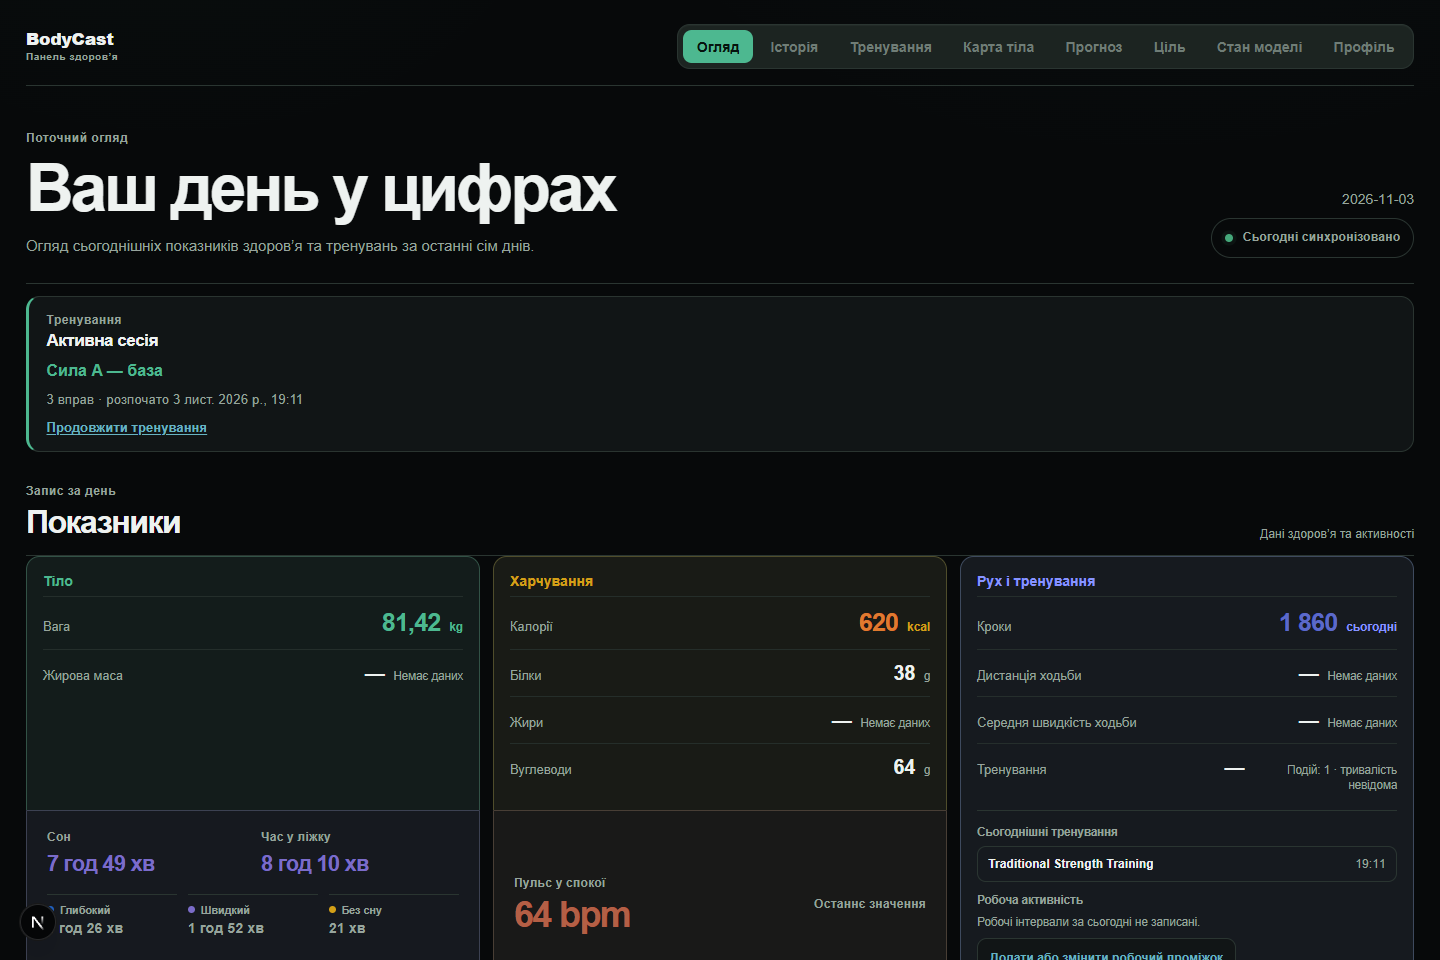
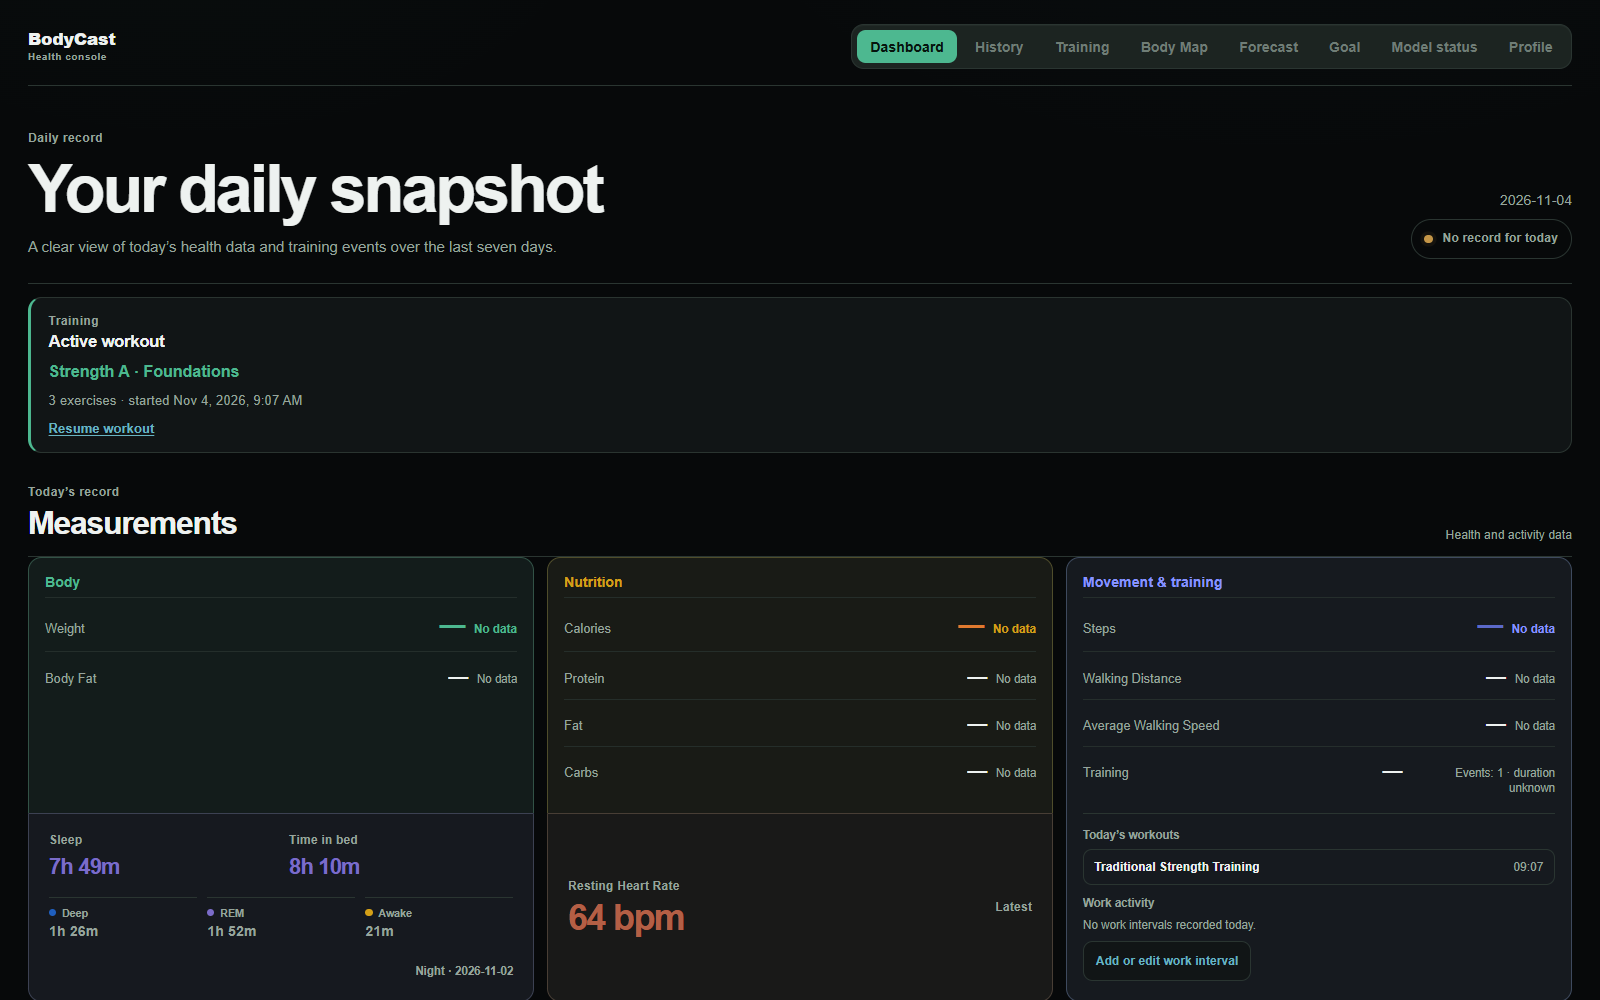
docs: expand English README screenshot gallery

diff --git a/scripts/qa/fullsite-preview-seed.ts b/scripts/qa/fullsite-preview-seed.ts
@@ -244,9 +244,15 @@ async function seedProgramsAndSessions(workouts: Awaited<ReturnType<typeof seedD
   const catalog = await prisma.exerciseCatalog.findMany({ where: { profileId: 1, isActive: true }, orderBy: { id: "asc" }, take: 10 });
   if (catalog.length < 6) throw new Error(`Expected at least six migration-seeded exercises, found ${catalog.length}`);
 
+  const previewExerciseNames = [
+    "30° incline dumbbell press", "Flat-bench dumbbell fly", "Handle push-up", "Seated dumbbell press",
+    "Single-arm lateral raise", "Single-arm cable triceps extension", "Bent-over single-arm dumbbell extension",
+    "Single-arm seated cable row", "Hyperextension", "Kneeling single-arm dumbbell curl",
+  ];
+  const previewExerciseNameById = new Map(catalog.map((exercise, index) => [exercise.id, previewExerciseNames[index] ?? exercise.name]));
   const programConfigs = [
-    { name: "Сила A — база", exercises: catalog.slice(0, 5) },
-    { name: "Сила B — обсяг", exercises: catalog.slice(5, 10) },
+    { name: "Strength A · Foundations", exercises: catalog.slice(0, 5) },
+    { name: "Strength B · Volume", exercises: catalog.slice(5, 10) },
   ];
   const programs = [];
   for (const [programIndex, config] of programConfigs.entries()) {
@@ -283,7 +289,8 @@ async function seedProgramsAndSessions(workouts: Awaited<ReturnType<typeof seedD
           const catalogRow = program.config.exercises[exerciseIndex]!;
           const isBodyweight = exercise.resistanceType === "BODYWEIGHT";
           return {
-            sourceExerciseCatalogId: exercise.exerciseCatalogId, snapshotExerciseName: catalogRow.name,
+            sourceExerciseCatalogId: exercise.exerciseCatalogId,
+            snapshotExerciseName: previewExerciseNameById.get(catalogRow.id) ?? catalogRow.name,
             sortOrder: exercise.sortOrder, plannedSets: exercise.plannedSets,
             resistanceType: exercise.resistanceType, origin: "PLANNED",
             sets: { create: Array.from({ length: exercise.plannedSets }, (_, setIndex) => ({
@@ -313,7 +320,8 @@ async function seedProgramsAndSessions(workouts: Awaited<ReturnType<typeof seedD
       webStartedAt: activeWorkoutStart,
       exercises: { create: activeProgram.version.exercises.slice(0, 3).map((exercise, exerciseIndex) => ({
         sourceExerciseCatalogId: exercise.exerciseCatalogId,
-        snapshotExerciseName: activeProgram.config.exercises[exerciseIndex]!.name,
+        snapshotExerciseName: previewExerciseNameById.get(activeProgram.config.exercises[exerciseIndex]!.id)
+          ?? activeProgram.config.exercises[exerciseIndex]!.name,
         sortOrder: exercise.sortOrder, plannedSets: exercise.plannedSets,
         resistanceType: exercise.resistanceType, origin: "PLANNED",
         sets: { create: exerciseIndex === 0 ? [
@@ -344,12 +352,12 @@ async function main() {
   await prisma.profile.upsert({
     where: { id: 1 },
     create: {
-      id: 1, locale: "uk", sex: "male", dateOfBirth: new Date("1990-05-10T00:00:00.000Z"),
+      id: 1, locale: "en", sex: "male", dateOfBirth: new Date("1990-05-10T00:00:00.000Z"),
       heightCm: 180, targetWeightKg: 78, targetDate: new Date("2027-03-01T00:00:00.000Z"),
       autoAdvanceExercises: true,
     },
     update: {
-      locale: "uk", sex: "male", dateOfBirth: new Date("1990-05-10T00:00:00.000Z"),
+      locale: "en", sex: "male", dateOfBirth: new Date("1990-05-10T00:00:00.000Z"),
       heightCm: 180, targetWeightKg: 78, targetDate: new Date("2027-03-01T00:00:00.000Z"),
       autoAdvanceExercises: true,
     },

diff --git a/README.md b/README.md
@@ -8,7 +8,7 @@ The project emphasizes source provenance and data quality: missing measurements 
 
 ## Screenshots
 
-These captures use synthetic data created in an isolated local PostgreSQL database. They do not show a user's production records.
+All screenshots use the English UI and synthetic data created in an isolated local PostgreSQL database. They do not show a user's production records. The Body Map preview displays the 3D anatomy view; training exposure is not connected in this fixture.
 
 | Daily overview | Health history |
 | --- | --- |
@@ -18,6 +18,14 @@ These captures use synthetic data created in an isolated local PostgreSQL databa
 | --- | --- |
 | ![BodyCast training diary with synthetic programs and sessions](docs/images/bodycast-training.png) | ![BodyCast model coverage and readiness diagnostics](docs/images/bodycast-diagnostics.png) |
 
+| 3D Body Map | Forecast and uncertainty |
+| --- | --- |
+| ![Interactive 3D anatomy view in BodyCast](docs/images/bodycast-body-map.png) | ![BodyCast forecast chart with recent history, projection, and uncertainty bands](docs/images/bodycast-forecast.png) |
+
+| Stepper workout diagnostics | |
+| --- | --- |
+| ![Stepper workout diagnostics with observed steps and active energy estimates](docs/images/bodycast-stepper-diagnostic.png) | |
+
 ## What it does
 
 - **Health history:** stores daily measurements and timestamped health samples, with charts for weight, nutrition, heart rate, sleep, and activity.
@@ -26,10 +34,10 @@ These captures use synthetic data created in an isolated local PostgreSQL databa
 - **Active Energy:** resolves workout energy from available device and BodyCast evidence while retaining source and provenance information.
 - **Model transparency:** shows input coverage, gaps, model status, and the distinction between observed values and derived estimates.
 - **Forecast and goal planning:** explores scenario-based weight trajectories and target feasibility when the required current model state is available.
-- **Body Map:** presents mapped training exposure through the application's 3D-first anatomy view.
+- **Body Map:** provides an interactive 3D anatomy view for mapped exercise exposure when exercise-to-muscle data are available.
 - **Profile and access:** supports email-verified accounts, profile-scoped API keys, and profile-scoped application data.
 
-Forecast and goal outputs depend on the freshness and availability of upstream model state. The local screenshot fixture used for this README currently renders those pages but returns `initial-state-unavailable` when asked to calculate a new scenario; no forecast result is shown here.
+Forecast and goal outputs depend on the freshness and availability of upstream model state. The forecast screenshot shows an application-generated result based on the synthetic local preview data.
 
 ## Technology
 

diff --git a/docs/qa/fullsite-preview.md b/docs/qa/fullsite-preview.md
@@ -68,9 +68,10 @@ Open <http://127.0.0.1:3001/dashboard>. `BODYCAST_FULLSITE_PREVIEW=1` gives Next
 
 ## Current preview limitations
 
-- The seeded fixture currently writes no Unified V4 rows. Forecast and Goal render their forms, but their calculate APIs return `initial-state-unavailable`; this preview cannot demonstrate a completed forecast result.
+- The seed creates V7 outputs but does not publish Unified V4. A fresh seed alone therefore leaves Forecast and Goal without a current upstream state. The README forecast capture was generated only after publishing synthetic V4 output in the disposable local QA database.
 - `scripts/qa/capture-fullsite-preview.ts` performs API preflight requests without forwarding a session cookie. It is not currently compatible with the session-protected API routes until its auth handling is updated.
 - The checked-in README screenshots were captured from this synthetic database using a transient local test session and an in-memory OTP mail stub. No real email was sent and no production account was used.
+- The seed sets the Profile 1 preview locale to English and uses English names for its synthetic training programs and exercise snapshots.
 
 To stop the disposable database, stop only the container created for this preview:
 
